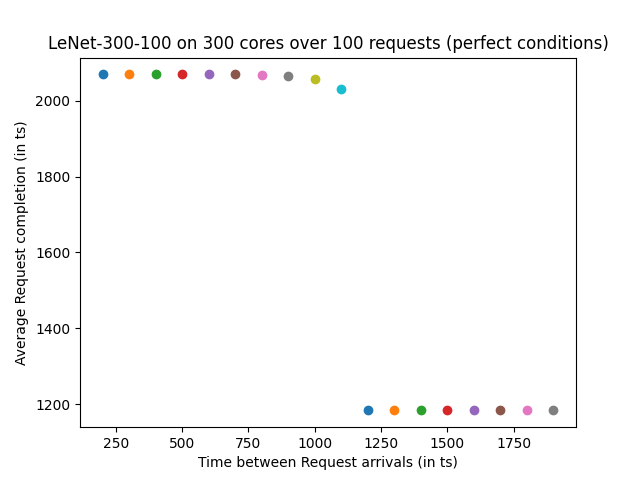
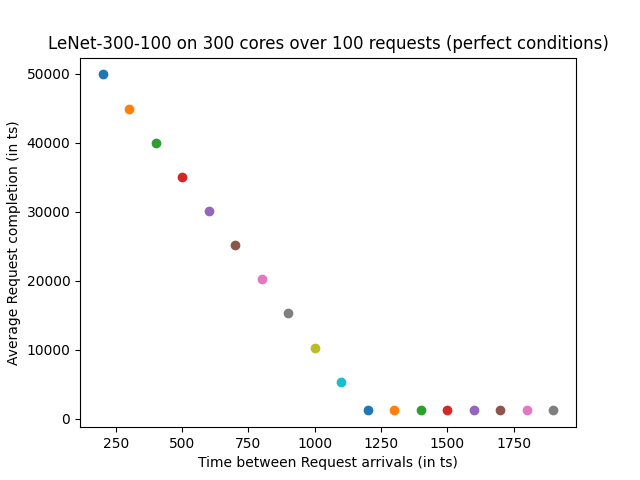
fixed req time calculation bug

diff --git a/lenet_sim.py b/lenet_sim.py
@@ -9,26 +9,29 @@ class Simulator():
         self.next_core = 0
 
     def simulate_lenet(self, t_offset=0):
-        job_times = []
+        original_offset = t_offset
+        # print("\nnew lenet with offset:", t_offset)
+        layer_end_times = []
 
         for layer in LENET_LAYERS:
             input_size, vvps = layer
-            earliest_start = math.inf
             latest_end = 0
+
+            # print("vvps:", vvps)
+            # print("input size:", input_size)
 
             for _ in range(vvps):
                 vvp_start_time, vvp_end_time = self.cores[self.next_core % NUM_CORES].schedule_vvp(input_size, t_offset)
-                if vvp_start_time < earliest_start:
-                    earliest_start = vvp_start_time
                 if vvp_end_time > latest_end:
                     latest_end = vvp_end_time
                 self.next_core += 1
             
-            job_time = latest_end - earliest_start
-            job_times.append(job_time)
+            layer_end_times.append(latest_end)
             t_offset = latest_end # next layer must begin after this layer is complete
-        
-        total_time = sum(job_times)
+            # print("layer end:", latest_end)
+            
+        total_time = layer_end_times[2] - original_offset
+        print("total time:", total_time)
         return total_time
 
 class Core():
@@ -53,3 +56,7 @@ def simulate_lenet_requests(simulator, num_reqs, interarrival_space):
         req_times.append(req_times_for_req)
     
     return sum(req_times) / len(req_times)
+
+if __name__=="__main__":
+    simulator = Simulator()
+    simulate_lenet_requests(simulator, 100, 200)
